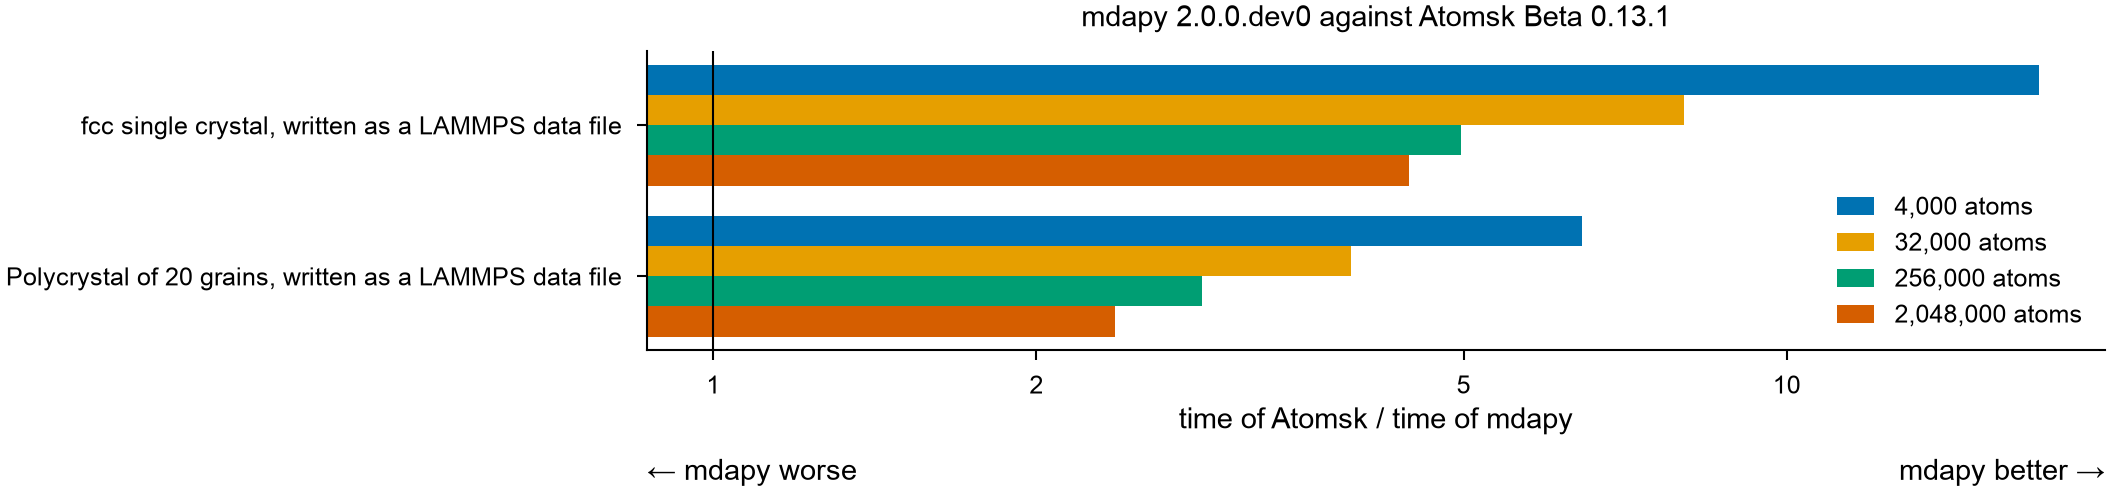
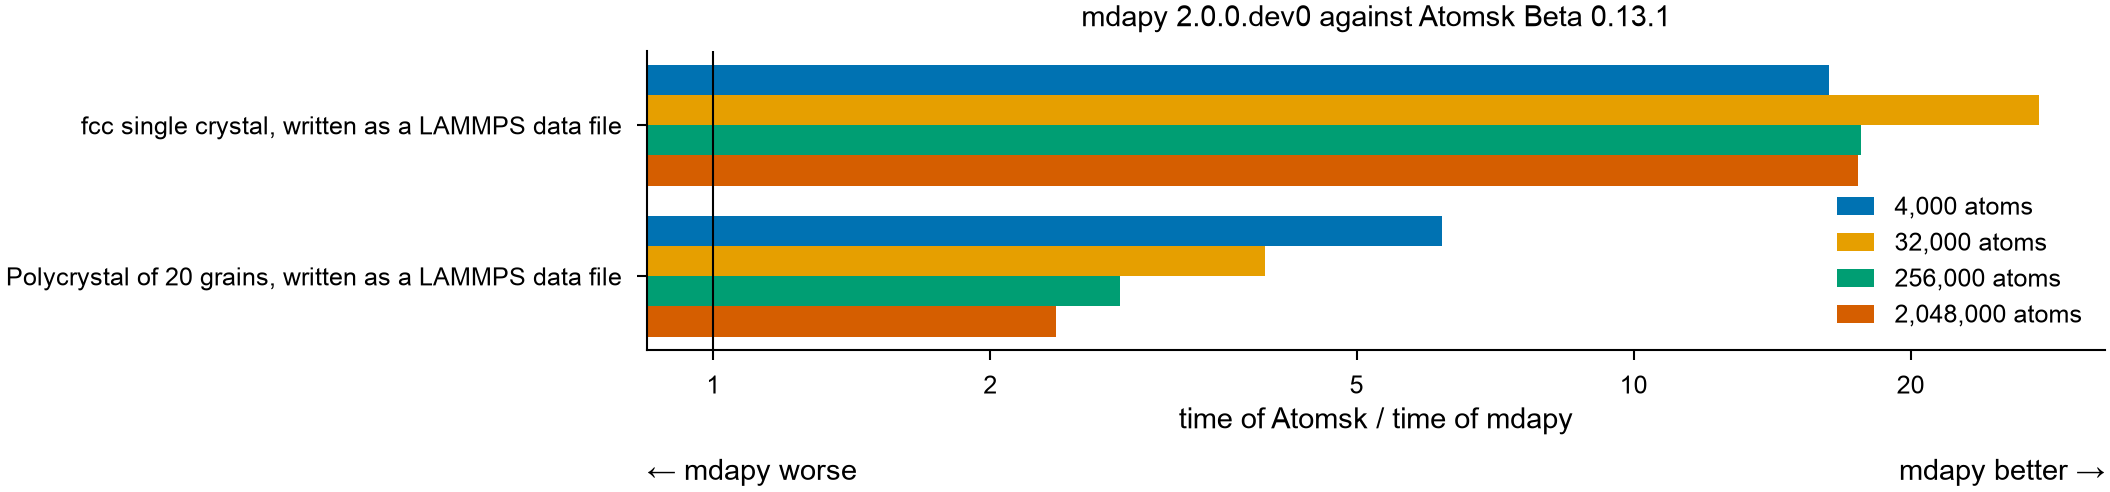
Building structures page after the faster build_crystal

diff --git a/docs/performance/builders.md b/docs/performance/builders.md
@@ -8,19 +8,18 @@ builds the structure mdapy builds.
 ## Results
 
 A node of the Triton cluster of Aalto University, alone for the run: two
-Intel Xeon Gold 6148 (40 cores, two NUMA nodes), 191 GB, Linux. Python 3.13,
+Intel Xeon Gold 6248 (40 cores, two NUMA nodes), 191 GB, Linux. Python 3.13,
 mdapy 2.0.0.dev0 built with GCC 12.3, and Atomsk Beta 0.13.1, a statically linked build of its release.
 
 ![Time of Atomsk over the time of mdapy for each case and size](images/builders.png)
 
 ### What they show
 
-- **Single crystal**: mdapy builds and writes it 4.5 to 17 times faster
-  than Atomsk, 1.2 s against 5.5 s at 2 million atoms.
-- **Polycrystal**: mdapy is 2.4 to 6.4 times faster, 4.4 s against 10.4 s at
+- **Single crystal**: mdapy builds and writes it 16 to 28 times faster
+  than Atomsk, 0.29 s against 5.0 s at 2 million atoms; building it is a
+  repetition of the cell, and most of the time is writing the file.
+- **Polycrystal**: mdapy is 2.4 to 6.2 times faster, 4.1 s against 9.6 s at
   2 million atoms.
-- Writing the data file takes mdapy 0.18 s of these times at 2 million
-  atoms.
 
 ### Times and memory
 
@@ -32,14 +31,14 @@ the timings; that of Atomsk, a process of its own, is not counted.
 
 | Case | Atoms | mdapy 2.0.0.dev0 (s) | Atomsk Beta 0.13.1 (s) | Atomsk / mdapy | mdapy (MB) | Atomsk (MB) |
 |---|---:|---:|---:|---:|---:|---:|
-| fcc single crystal, written as a LAMMPS data file | 4,000 | 0.004 | 0.069 | 17.17 | 0 | – |
-| fcc single crystal, written as a LAMMPS data file | 32,000 | 0.018 | 0.142 | 8.02 | 1 | – |
-| fcc single crystal, written as a LAMMPS data file | 256,000 | 0.142 | 0.705 | 4.97 | 29 | – |
-| fcc single crystal, written as a LAMMPS data file | 2,048,000 | 1.234 | 5.492 | 4.45 | 90 | – |
-| Polycrystal of 20 grains, written as a LAMMPS data file | 3,981 | 0.033 | 0.212 | 6.44 | 0 | – |
-| Polycrystal of 20 grains, written as a LAMMPS data file | 31,995 | 0.095 | 0.372 | 3.93 | 4 | – |
-| Polycrystal of 20 grains, written as a LAMMPS data file | 255,941 | 0.506 | 1.442 | 2.85 | 58 | – |
-| Polycrystal of 20 grains, written as a LAMMPS data file | 2,047,788 | 4.387 | 10.387 | 2.37 | 117 | – |
+| fcc single crystal, written as a LAMMPS data file | 4,000 | 0.003 | 0.043 | 16.31 | 0 | 0 |
+| fcc single crystal, written as a LAMMPS data file | 32,000 | 0.005 | 0.148 | 27.55 | 4 | 0 |
+| fcc single crystal, written as a LAMMPS data file | 256,000 | 0.038 | 0.676 | 17.65 | 30 | 0 |
+| fcc single crystal, written as a LAMMPS data file | 2,048,000 | 0.287 | 5.024 | 17.53 | 129 | 0 |
+| Polycrystal of 20 grains, written as a LAMMPS data file | 3,981 | 0.029 | 0.180 | 6.18 | 0 | 0 |
+| Polycrystal of 20 grains, written as a LAMMPS data file | 31,995 | 0.088 | 0.352 | 3.98 | 2 | 0 |
+| Polycrystal of 20 grains, written as a LAMMPS data file | 255,941 | 0.483 | 1.336 | 2.76 | 42 | 0 |
+| Polycrystal of 20 grains, written as a LAMMPS data file | 2,047,788 | 4.080 | 9.613 | 2.36 | 115 | 0 |
 
 ## Cases
 
